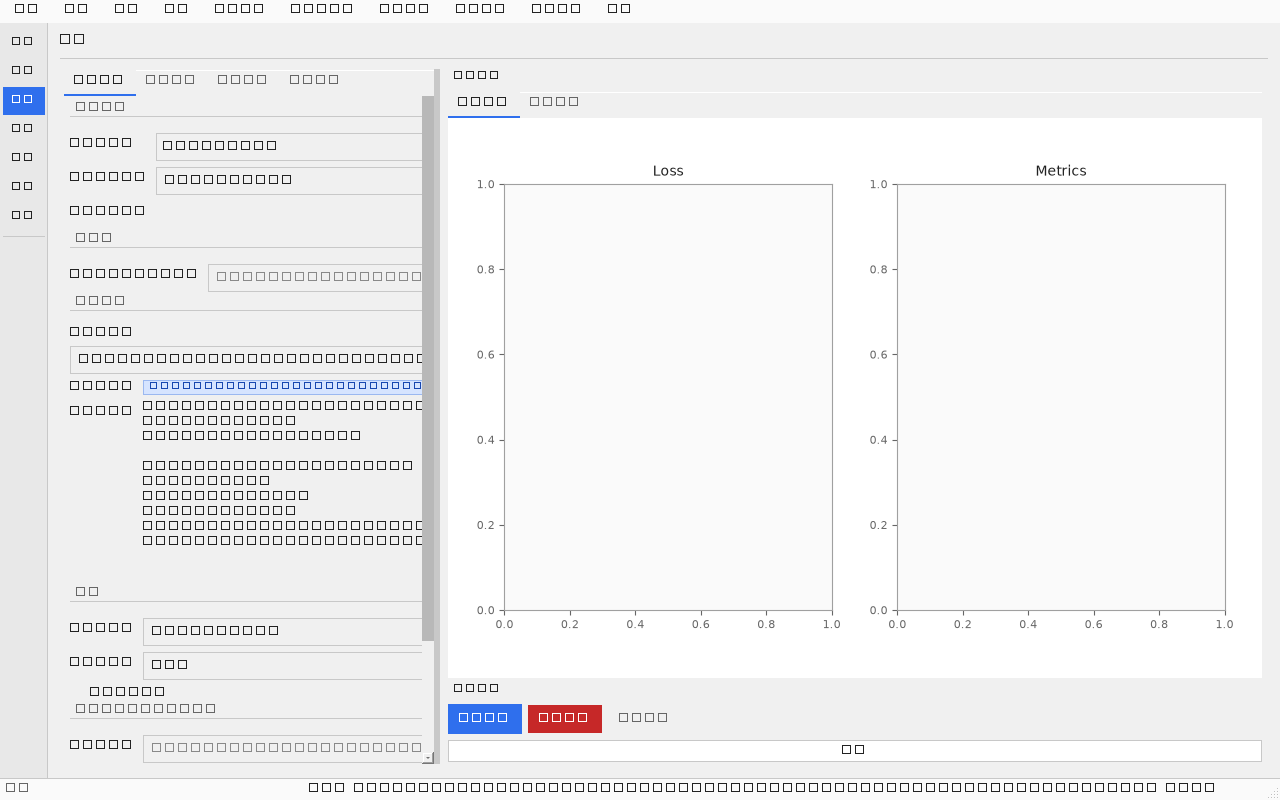
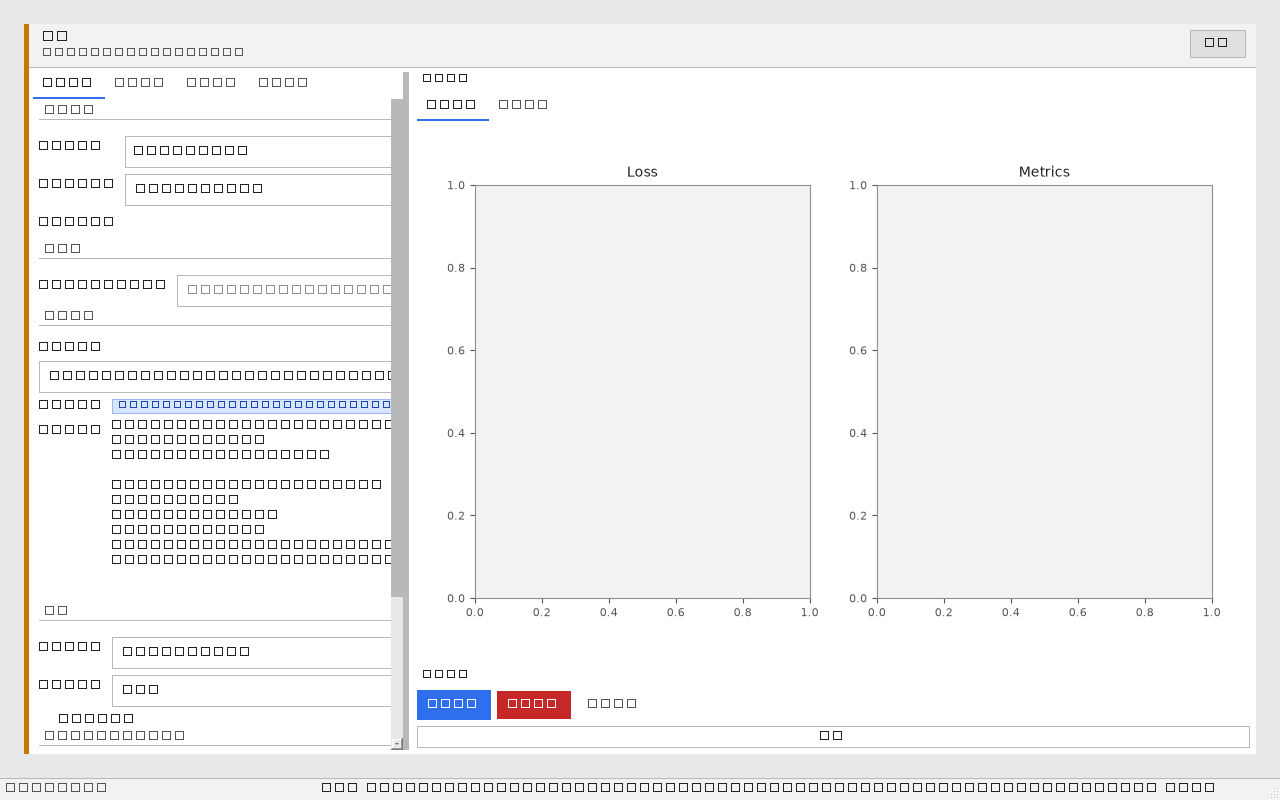
fix: 清掉深色画布残留，统一为亮色 LabelImg 工作台

diff --git a/gui/workflow_canvas_panel.py b/gui/workflow_canvas_panel.py
@@ -71,11 +71,11 @@ SUB_STAGES: tuple[StageSpec, ...] = (
     StageSpec("namemap", "类别映射", "模型名 ↔ 项目类", -1, "#1B7F5A", "sub", "annotate", "dialog:namemap"),
     StageSpec("stats", "统计", "类别分布与报告", -1, "#5A6A7A", "sub", "quality", "stage:5:0"),
     StageSpec("flow", "流程", "批量与预设", -1, "#5A6A7A", "sub", "quality", "stage:5:1"),
-    StageSpec("env", "环境", "CUDA / PyTorch", -1, "#666666", "sub", "system", "dialog:env"),
+    StageSpec("env", "环境", "CUDA / PyTorch", -1, "#5C6B7A", "sub", "system", "dialog:env"),
 )
 
 UTILITY_STAGES: tuple[StageSpec, ...] = (
-    StageSpec("system", "系统", "环境与本机配置", -1, "#666666", "utility", None, "dialog:env"),
+    StageSpec("system", "系统", "环境与本机配置", -1, "#5C6B7A", "utility", None, "dialog:env"),
 )
 
 ALL_STAGES: tuple[StageSpec, ...] = MAIN_STAGES + UTILITY_STAGES + SUB_STAGES

diff --git a/gui/main_window.py b/gui/main_window.py
@@ -184,7 +184,7 @@ class MainWindow(WorkflowOpsMixin, AnnotationWorkbenchMixin, QMainWindow):
                 self._stage_meta[spec.workspace_index] = (spec.title, spec.subtitle, spec.accent)
         self._stage_meta[STAGE_PROJECT] = ("管理项目", "创建 / 打开项目", "#2F6FED")
         self._stage_meta[STAGE_VIDEO] = ("视频截帧", "抽帧进数据集", "#2F6FED")
-        self._stage_meta[STAGE_ENV] = ("环境", "CUDA / PyTorch", "#666666")
+        self._stage_meta[STAGE_ENV] = ("环境", "CUDA / PyTorch", "#5C6B7A")
         self._stage_meta[STAGE_FORMAT] = ("格式转换", "YOLO / VOC / COCO", "#2F6FED")
         self._stage_meta[STAGE_NAMEMAP] = ("类别名映射", "模型名 ↔ 项目类", "#1B7F5A")
 

diff --git a/gui/theme.py b/gui/theme.py
@@ -21,9 +21,9 @@ class Theme:
     WARNING = "#B86E00"
     DANGER = "#C62828"
     SELECTION = "#D6E4FF"
-    # Mid gray — matches light chrome (LabelImg), not pitch-black
-    CANVAS_BG = "#7A7A7A"
-    CANVAS_HINT = "#F0F0F0"
+    # Light mid-gray stage — enough contrast for images, no dark-mode slab
+    CANVAS_BG = "#D4D4D4"
+    CANVAS_HINT = "#555555"
 
 
 def build_stylesheet() -> str:
@@ -103,7 +103,7 @@ def build_stylesheet() -> str:
         border-bottom: 1px solid {Theme.BORDER};
     }}
     QWidget#StageOverlayDim {{
-        background: rgba(40, 40, 40, 90);
+        background: {Theme.BG};
     }}
     QWidget#StageOverlay {{
         background: {Theme.SURFACE_2};

diff --git a/gui/video_capture_dialog.py b/gui/video_capture_dialog.py
@@ -151,7 +151,7 @@ class VideoCaptureDialog(QDialog):
         self._current_frame_idx = 0
 
         self._init_ui()
-        self._apply_dark_style()
+        self._apply_theme_style()
 
     # ------------------------------------------------------------------
     # UI Setup
@@ -432,7 +432,7 @@ class VideoCaptureDialog(QDialog):
         # Initialize mode visibility
         self._on_mode_changed(0)
 
-    def _apply_dark_style(self):
+    def _apply_theme_style(self):
         self.setStyleSheet(build_stylesheet())
 
     # ------------------------------------------------------------------

diff --git a/gui/env_check_dialog.py b/gui/env_check_dialog.py
@@ -91,7 +91,7 @@ class EnvironmentCheckDialog(QDialog):
         self._diag: list[DiagnosisItem] = []
 
         self._init_ui()
-        self._apply_dark_style()
+        self._apply_theme_style()
         self._start_detection()
 
     def _init_ui(self):
@@ -228,7 +228,7 @@ class EnvironmentCheckDialog(QDialog):
 
         layout.addLayout(btn_layout)
 
-    def _apply_dark_style(self):
+    def _apply_theme_style(self):
         self.setStyleSheet(build_stylesheet())
 
     def _start_detection(self):

diff --git a/gui/canvas.py b/gui/canvas.py
@@ -384,7 +384,7 @@ class AnnotationCanvas(QWidget):
 
         # Zoom indicator
         if self.zoom_level != 1.0:
-            painter.setPen(QColor(200, 200, 200, 180))
+            painter.setPen(QColor(Theme.TEXT))
             font = QFont()
             font.setPointSize(10)
             painter.setFont(font)

diff --git a/tests/test_config.py b/tests/test_config.py
@@ -103,7 +103,7 @@ class TestAppGeneralConfig:
     def test_defaults(self):
         cfg = AppGeneralConfig()
         assert cfg.name == "YOLO Studio"
-        assert cfg.theme == "dark"
+        assert cfg.theme == "light"
         assert cfg.language == "zh"
 
 

diff --git a/core/config.py b/core/config.py
@@ -142,7 +142,7 @@ class ExportConfig(BaseModel):
 class AppGeneralConfig(BaseModel):
     name: str = "YOLO Studio"
     version: str = "1.0.0"
-    theme: str = "dark"
+    theme: str = "light"
     language: str = "zh"
 
 
